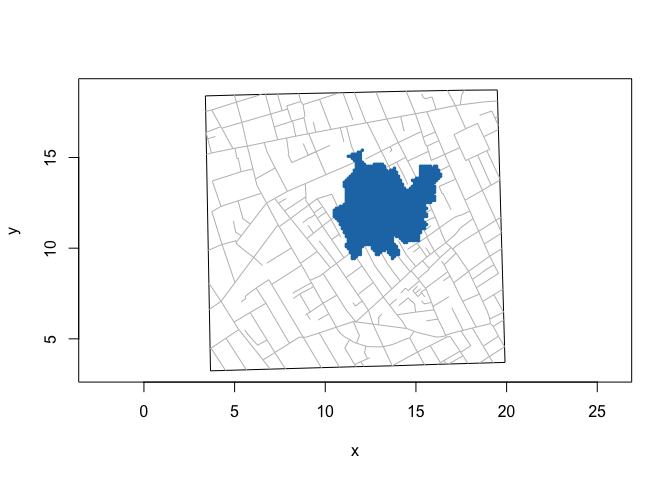
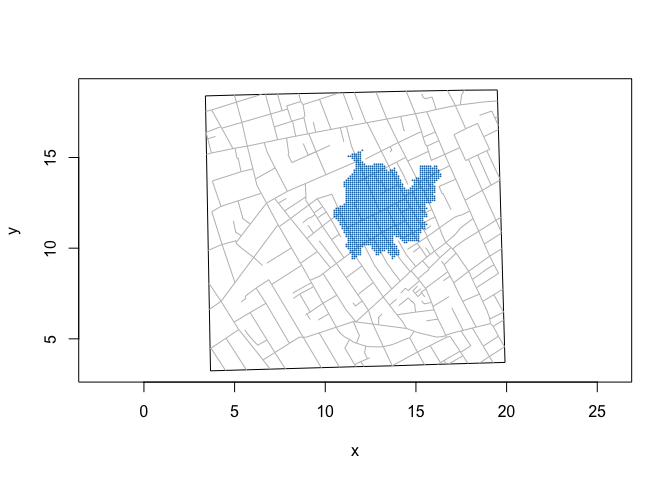
copyedit pump neighborhood lab note

Changed region(s): [[0.4688, 0.3125, 0.6562, 0.5625]]

diff --git a/docs/pump.neighborhoods.notes.md b/docs/pump.neighborhoods.notes.md
@@ -8,33 +8,37 @@ Area polygons
 
 To draw the area polygons for pump neighborhoods, I did the following.
 
-First, using sp::spsample and sp::Polygon, I place approximately 20K regularly-spaced points across the face of the map.
+First, using sp::spsample() and sp::Polygon(), I place approximately 20K regularly-spaced points across the face of the map:
 
 ``` r
 sp::spsample(sp::Polygon(map.frame[, c("x", "y")]), n = 20000, type = "regular")
 ```
 
-For each simulated cases, I compute the closet water pump. This partitions the simulated cases into clusters that reflect the selected pump neighborhoods. The figure below plots 1709 simulated cases for Broad Street pump neighborhood (pump \#7).
+For each simulated cases, I compute the closet water pump. This partitions the simulated cases into clusters that reflect the selected pump neighborhoods. The details are in cholera::simulateFatalities(), located in [simulateFatalities.R](https://github.com/lindbrook/cholera/blob/master/R/simulateFatalities.R)
+
+The figure below plots the 1,709 simulated cases for the Broad Street pump neighborhood (pump \#7).
 
 ![](pump.neighborhoods.notes_files/figure-markdown_github/cloud-1.png)
 
-The next step is to find the points along the periphery of the cluster.
+Second, I find the points that fall along the periphery of the cluster.
 
 ![](pump.neighborhoods.notes_files/figure-markdown_github/perimeter-1.png)
 
-Eventually, this will allow me to use graphics::polygon() to create plots like the Marshall Street example:
+This is what allow me to use graphics::polygon() to create plots like the Marshall Street example in the vignette:
 
 ![](pump.neighborhoods.notes_files/figure-markdown_github/marshall-1.png)
 
-However, doing this is easier said than done. One could compute the convex hull of a neighborhood's points. But because the convex hull picks a space based on the most outlying points in the cloud, when there are concavities, points outside the neighborhood will fall within the polygon.
+Doing this, however, is easier said than done. While the convex hull of neighborhood's points gets us close, it's not a good general solution. This is because the convex hull will create a polygon based on the most outlying points. As a result, when there are concavities, points outside the neighborhood will fall within the resulting polygon.
 
 ![](pump.neighborhoods.notes_files/figure-markdown_github/hull-1.png)
 
-Another possibility, which I used in an earlier version of 'cholera', is the 'alphahull' package. But that not only requires tweaking a parameter, it also has an ACM license that CRAN doesn't like.
+Another possibility, which I used in an earlier version of 'cholera', is to use the 'alphahull' package. But that not only requires tweaking a parameter, it also has an ACM license that generates a warning on CRAN Package Check.
 
 String of pearls
 ----------------
 
-My workable but mechanical solution is the following. First, I identify candidate points along the periphery by eliminating simulated cases that has immediate neighbors at each of the 4 cardinal directions (i.e., North, South, East and West). Second, I then connect the dots in the "right" order by using [epicycles](https://en.wikipedia.org/wiki/Deferent_and_epicycle). This works as double loop. The outer loop, which assembles the vertices of the polygon, moves in clockwise fashion. The inner loop, which finds the next vertex, moves counterclockwise in order to capture concavities. A tertiary concern is the density of simulated cases. The algorithm can fail by getting stuck in dead ends or by skipping over points. As is often the case, more data can help. As a tradeoff between computational speed and functional robustness, I use 20K simulated cases.
+My workable but mechanical solution does the following. First, I identify points along the periphery by eliminating simulated cases that have immediate neighbors at each of the 4 cardinal directions (i.e., North, South, East and West). I then try to connect the dots in the "right" order by using [epicycles](https://en.wikipedia.org/wiki/Deferent_and_epicycle). This works as a double loop. The outer loop, which moves around the perimeter in clockwise fashion, assembles the vertices of the polygon (i.e., add the pearls on the string). The inner loop, which finds the next vertex, moves counterclockwise epicycles. Doing so capture concavities in the polygon.
+
+Of equal if not greater importance is the density of simulated cases. The algorithm can fail by getting stuck in dead ends or by skipping over points. As is often the case, more data can help. As a tradeoff between computational speed and functional robustness, I use 20K simulated cases.
 
 ![](pump.neighborhoods.notes_files/figure-markdown_github/pearl_string-1.png)
